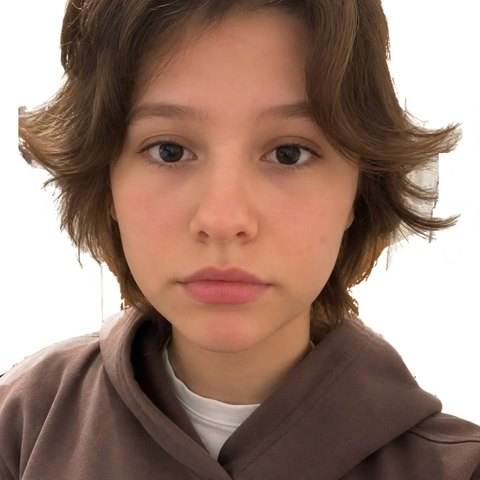
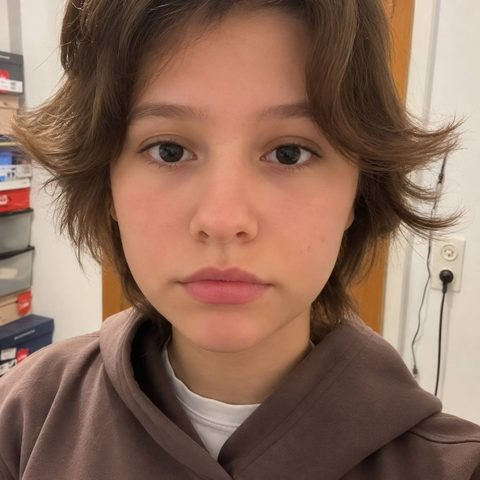
Team: restore original Sofiia photo

Changed region(s): [[0.7188, 0.0, 1.0, 0.9062], [0.0, 0.0, 0.2812, 0.8125]]

diff --git a/index.html b/index.html
@@ -22,7 +22,7 @@
   <script type="application/ld+json">{"@context": "https://schema.org", "@type": "EntertainmentBusiness", "name": "Happy Team", "description": "Ein Team aus vier Animateuren: Kinderfeste in der Stadt und im Kanton Zürich auf Ukrainisch und Deutsch.", "url": "https://anima-shark.github.io/", "image": "https://anima-shark.github.io/og-image.png", "email": "sophiaprytula@gmail.com", "telephone": "+41764929764", "areaServed": [{"@type": "City", "name": "Zürich"}, {"@type": "AdministrativeArea", "name": "Kanton Zürich"}], "availableLanguage": ["uk", "de"], "priceRange": "CHF 50–60 pro Stunde und Animateur", "sameAs": ["https://www.instagram.com/anima_teams/", "https://t.me/gingzuh"]}</script>
   <link rel="icon" type="image/svg+xml" href="logo.svg">
   <script>document.documentElement.classList.add("i18n-pending");setTimeout(function(){document.documentElement.classList.remove("i18n-pending")},2500)</script>
-  <link rel="stylesheet" href="style.css?v=20261071">
+  <link rel="stylesheet" href="style.css?v=20261072">
 </head>
 <body>
   <header class="header">
@@ -60,10 +60,10 @@
     <section id="team" class="section reveal">
       <h2 data-i18n="team.title">Unser Team</h2>
       <ul class="team">
-        <li><img src="team/alina.jpg?v=20261071" alt="Alina Khmara" width="240" height="240" loading="lazy"><span data-i18n="team.1">Alina Khmara</span></li>
-        <li><img src="team/margarita.jpg?v=20261071" alt="Margarita" width="240" height="240" loading="lazy"><span data-i18n="team.2">Margarita</span></li>
-        <li><img src="team/sofiia.jpg?v=20261071" alt="Sofiia Prytula" width="240" height="240" loading="lazy"><span data-i18n="team.3">Sofiia Prytula</span></li>
-        <li><img src="team/siuzana.jpg?v=20261071" alt="Siuzanna Kononiuk" width="240" height="240" loading="lazy"><span data-i18n="team.4">Siuzanna Kononiuk</span></li>
+        <li><img src="team/alina.jpg?v=20261072" alt="Alina Khmara" width="240" height="240" loading="lazy"><span data-i18n="team.1">Alina Khmara</span></li>
+        <li><img src="team/margarita.jpg?v=20261072" alt="Margarita" width="240" height="240" loading="lazy"><span data-i18n="team.2">Margarita</span></li>
+        <li><img src="team/sofiia.jpg?v=20261072" alt="Sofiia Prytula" width="240" height="240" loading="lazy"><span data-i18n="team.3">Sofiia Prytula</span></li>
+        <li><img src="team/siuzana.jpg?v=20261072" alt="Siuzanna Kononiuk" width="240" height="240" loading="lazy"><span data-i18n="team.4">Siuzanna Kononiuk</span></li>
       </ul>
     </section>
 
@@ -224,8 +224,8 @@
     <svg viewBox="0 0 24 24" width="30" height="30" aria-hidden="true"><path fill="currentColor" d="M17.472 14.382c-.297-.149-1.758-.867-2.03-.967-.273-.099-.471-.148-.67.15-.197.297-.767.966-.94 1.164-.173.199-.347.223-.644.075-.297-.15-1.255-.463-2.39-1.475-.883-.788-1.48-1.761-1.653-2.059-.173-.297-.018-.458.13-.606.134-.133.298-.347.446-.52.149-.174.198-.298.298-.497.099-.198.05-.371-.025-.52-.075-.149-.669-1.612-.916-2.207-.242-.579-.487-.5-.669-.51-.173-.008-.371-.01-.57-.01-.198 0-.52.074-.792.372-.272.297-1.04 1.016-1.04 2.479 0 1.462 1.065 2.875 1.213 3.074.149.198 2.096 3.2 5.077 4.487.709.306 1.262.489 1.694.625.712.227 1.36.195 1.871.118.571-.085 1.758-.719 2.006-1.413.248-.694.248-1.289.173-1.413-.074-.124-.272-.198-.57-.347m-5.421 7.403h-.004a9.87 9.87 0 01-5.031-1.378l-.361-.214-3.741.982.998-3.648-.235-.374a9.86 9.86 0 01-1.51-5.26c.001-5.45 4.436-9.884 9.888-9.884 2.64 0 5.122 1.03 6.988 2.898a9.825 9.825 0 012.893 6.994c-.003 5.45-4.437 9.884-9.885 9.884m8.413-18.297A11.815 11.815 0 0012.05 0C5.495 0 .16 5.335.157 11.892c0 2.096.547 4.142 1.588 5.945L.057 24l6.305-1.654a11.882 11.882 0 005.683 1.448h.005c6.554 0 11.89-5.335 11.893-11.893a11.821 11.821 0 00-3.48-8.413Z"/></svg>
   </a>
 
-  <script src="i18n.js?v=20261071"></script>
-  <script src="script.js?v=20261071"></script>
-  <script src="calc.js?v=20261071"></script>
+  <script src="i18n.js?v=20261072"></script>
+  <script src="script.js?v=20261072"></script>
+  <script src="calc.js?v=20261072"></script>
 </body>
 </html>

diff --git a/theme-superheroes.html b/theme-superheroes.html
@@ -20,7 +20,7 @@
   <link rel="alternate" hreflang="x-default" href="https://anima-shark.github.io/theme-superheroes.html">
   <link rel="icon" type="image/svg+xml" href="logo.svg">
   <script>document.documentElement.classList.add("i18n-pending");setTimeout(function(){document.documentElement.classList.remove("i18n-pending")},2500)</script>
-  <link rel="stylesheet" href="style.css?v=20261071">
+  <link rel="stylesheet" href="style.css?v=20261072">
 </head>
 <body>
   <header class="header">
@@ -86,7 +86,7 @@
     <p>© <span id="year"></span> <span data-i18n="footer.name">Happy Team</span></p>
   </footer>
 
-  <script src="i18n.js?v=20261071"></script>
-  <script src="page.js?v=20261071"></script>
+  <script src="i18n.js?v=20261072"></script>
+  <script src="page.js?v=20261072"></script>
 </body>
 </html>

diff --git a/theme-dinosaurs.html b/theme-dinosaurs.html
@@ -20,7 +20,7 @@
   <link rel="alternate" hreflang="x-default" href="https://anima-shark.github.io/theme-dinosaurs.html">
   <link rel="icon" type="image/svg+xml" href="logo.svg">
   <script>document.documentElement.classList.add("i18n-pending");setTimeout(function(){document.documentElement.classList.remove("i18n-pending")},2500)</script>
-  <link rel="stylesheet" href="style.css?v=20261071">
+  <link rel="stylesheet" href="style.css?v=20261072">
 </head>
 <body>
   <header class="header">
@@ -86,7 +86,7 @@
     <p>© <span id="year"></span> <span data-i18n="footer.name">Happy Team</span></p>
   </footer>
 
-  <script src="i18n.js?v=20261071"></script>
-  <script src="page.js?v=20261071"></script>
+  <script src="i18n.js?v=20261072"></script>
+  <script src="page.js?v=20261072"></script>
 </body>
 </html>

diff --git a/theme-minecraft.html b/theme-minecraft.html
@@ -20,7 +20,7 @@
   <link rel="alternate" hreflang="x-default" href="https://anima-shark.github.io/theme-minecraft.html">
   <link rel="icon" type="image/svg+xml" href="logo.svg">
   <script>document.documentElement.classList.add("i18n-pending");setTimeout(function(){document.documentElement.classList.remove("i18n-pending")},2500)</script>
-  <link rel="stylesheet" href="style.css?v=20261071">
+  <link rel="stylesheet" href="style.css?v=20261072">
 </head>
 <body>
   <header class="header">
@@ -87,7 +87,7 @@
     <p>© <span id="year"></span> <span data-i18n="footer.name">Happy Team</span></p>
   </footer>
 
-  <script src="i18n.js?v=20261071"></script>
-  <script src="page.js?v=20261071"></script>
+  <script src="i18n.js?v=20261072"></script>
+  <script src="page.js?v=20261072"></script>
 </body>
 </html>

diff --git a/theme-pirates.html b/theme-pirates.html
@@ -20,7 +20,7 @@
   <link rel="alternate" hreflang="x-default" href="https://anima-shark.github.io/theme-pirates.html">
   <link rel="icon" type="image/svg+xml" href="logo.svg">
   <script>document.documentElement.classList.add("i18n-pending");setTimeout(function(){document.documentElement.classList.remove("i18n-pending")},2500)</script>
-  <link rel="stylesheet" href="style.css?v=20261071">
+  <link rel="stylesheet" href="style.css?v=20261072">
 </head>
 <body>
   <header class="header">
@@ -86,7 +86,7 @@
     <p>© <span id="year"></span> <span data-i18n="footer.name">Happy Team</span></p>
   </footer>
 
-  <script src="i18n.js?v=20261071"></script>
-  <script src="page.js?v=20261071"></script>
+  <script src="i18n.js?v=20261072"></script>
+  <script src="page.js?v=20261072"></script>
 </body>
 </html>

diff --git a/theme-roblox.html b/theme-roblox.html
@@ -20,7 +20,7 @@
   <link rel="alternate" hreflang="x-default" href="https://anima-shark.github.io/theme-roblox.html">
   <link rel="icon" type="image/svg+xml" href="logo.svg">
   <script>document.documentElement.classList.add("i18n-pending");setTimeout(function(){document.documentElement.classList.remove("i18n-pending")},2500)</script>
-  <link rel="stylesheet" href="style.css?v=20261071">
+  <link rel="stylesheet" href="style.css?v=20261072">
 </head>
 <body>
   <header class="header">
@@ -87,7 +87,7 @@
     <p>© <span id="year"></span> <span data-i18n="footer.name">Happy Team</span></p>
   </footer>
 
-  <script src="i18n.js?v=20261071"></script>
-  <script src="page.js?v=20261071"></script>
+  <script src="i18n.js?v=20261072"></script>
+  <script src="page.js?v=20261072"></script>
 </body>
 </html>

diff --git a/theme-shark.html b/theme-shark.html
@@ -20,7 +20,7 @@
   <link rel="alternate" hreflang="x-default" href="https://anima-shark.github.io/theme-shark.html">
   <link rel="icon" type="image/svg+xml" href="logo.svg">
   <script>document.documentElement.classList.add("i18n-pending");setTimeout(function(){document.documentElement.classList.remove("i18n-pending")},2500)</script>
-  <link rel="stylesheet" href="style.css?v=20261071">
+  <link rel="stylesheet" href="style.css?v=20261072">
 </head>
 <body>
   <header class="header">
@@ -86,7 +86,7 @@
     <p>© <span id="year"></span> <span data-i18n="footer.name">Happy Team</span></p>
   </footer>
 
-  <script src="i18n.js?v=20261071"></script>
-  <script src="page.js?v=20261071"></script>
+  <script src="i18n.js?v=20261072"></script>
+  <script src="page.js?v=20261072"></script>
 </body>
 </html>

diff --git a/game.html b/game.html
@@ -10,7 +10,7 @@
   <meta property="og:type" content="website">
   <link rel="icon" type="image/svg+xml" href="logo.svg">
   <script>document.documentElement.classList.add("i18n-pending");setTimeout(function(){document.documentElement.classList.remove("i18n-pending")},2500)</script>
-  <link rel="stylesheet" href="style.css?v=20261071">
+  <link rel="stylesheet" href="style.css?v=20261072">
 </head>
 <body>
   <header class="header">
@@ -58,7 +58,7 @@
     <p>© <span id="year"></span> <span data-i18n="footer.name">Happy Team</span></p>
   </footer>
 
-  <script src="i18n.js?v=20261071"></script>
-  <script src="game.js?v=20261071"></script>
+  <script src="i18n.js?v=20261072"></script>
+  <script src="game.js?v=20261072"></script>
 </body>
 </html>
